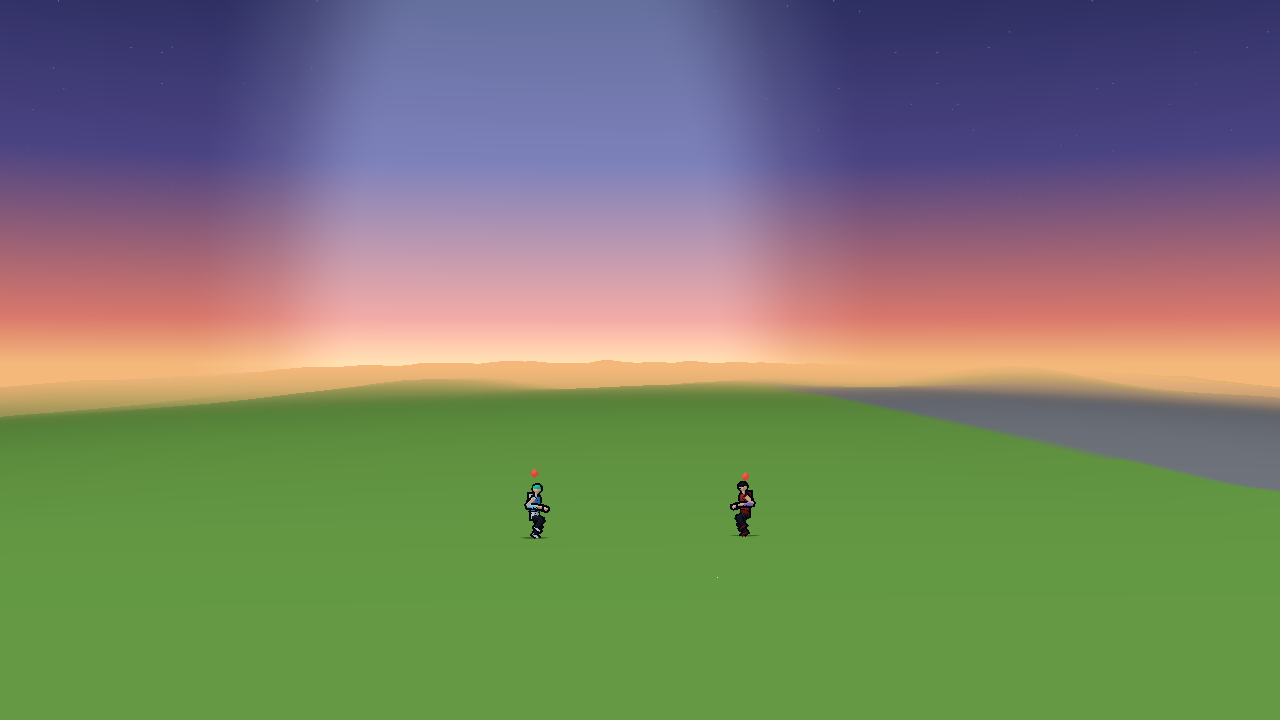
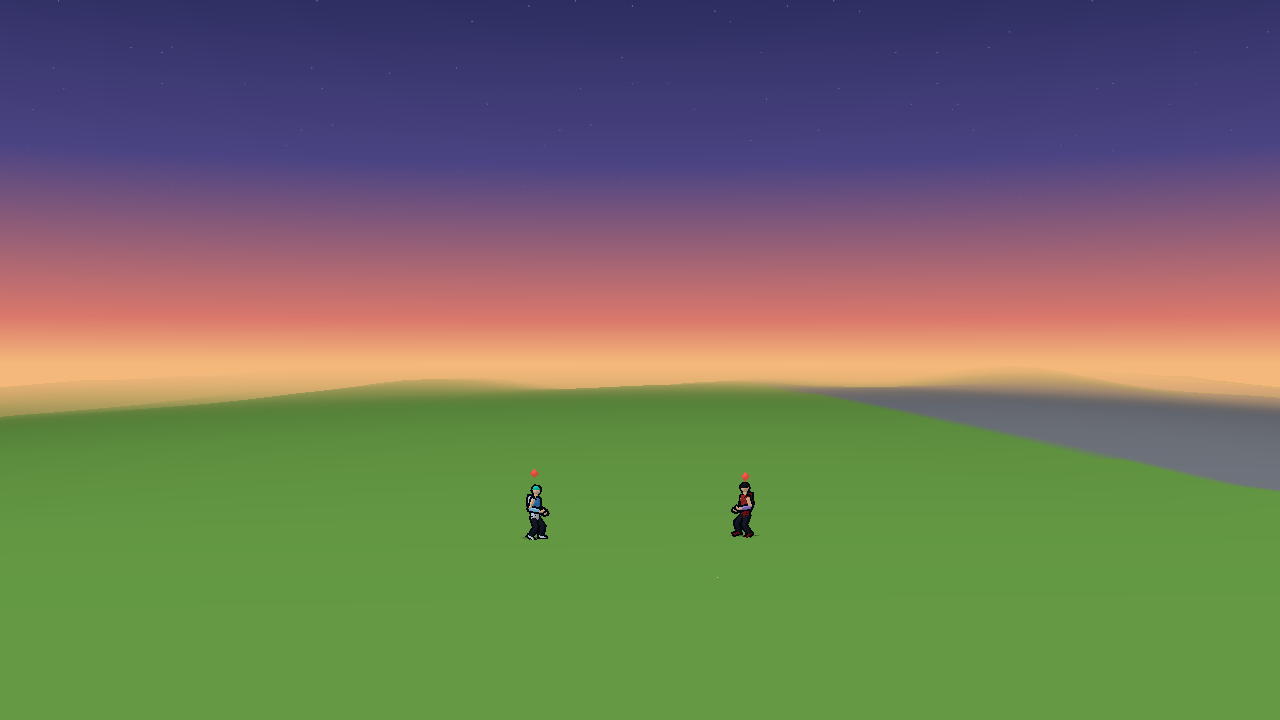
Rendering: the sky reaction is a gap in the clouds with a lit edge, never a pale pillar (GB-002)

Changed region(s): [[0.2188, 0.0, 0.625, 0.5194], [0.5625, 0.6722, 0.5938, 0.7639], [0.4062, 0.6722, 0.4375, 0.7639]]

diff --git a/docs/rendering/README.md b/docs/rendering/README.md
@@ -332,18 +332,31 @@ Each fighter at stages 0 to 3, then the first again in the reduced version: ![da
 
 At the fight's own size, both wounded: ![damage in a fight](img/cool-damage-fight.png)
 
-**The sky reacts from tier 3 (feature 12, Rendering's part).**
-- **Clouds.** The sky had none, so nothing could part. It now has a band of long clouds above the horizon: two octaves of noise in the sky shader, lit warm from the horizon. They move with the camera's place round the planet (the pattern wraps with the planet) and a slow wind. There are none at the horizon line, where the ground's haze meets the sky, and none in space.
-- **The reaction.** For a fighter at tier 3 or more the clouds part in a tall opening above him, their edges round it lit in his colour, and the sky inside pales toward his colour. Half strength at tier 3, full at tier 4, easing over 1.5 s of tick time. Each pane shows it from its own camera. Nothing happens below tier 3.
-- **It only lightens.** A pixel inside the opening is never darker than the sky was, and there is no lightning (Legal's screen of the list). The stars fade inside the opening.
+**The clouds part from tier 3 (feature 12, Rendering's part).**
+- **Clouds.** The sky has a band of long clouds above the horizon: two octaves of noise in the sky shader, lit warm from the horizon. They move with the camera's place round the planet (the pattern wraps with the planet) and a slow wind. There are none at the horizon line, where the ground's haze meets the sky, and none in space.
+- **The reaction.** For a fighter at tier 3 or more, a gap opens in the cloud band above him, wider than tall, and the clouds round the gap are lit in his colour. Half strength at tier 3, full at tier 4, easing over 1.5 s of tick time. Nothing happens below tier 3.
+- **Only clouds.** That is all of it. No cloud is made, nothing is drawn where there is no cloud, and the sky inside the gap is the sky as it was. Under a clear patch of sky a tier 4 fighter shows nothing.
+- **It stays in the cloud band.** The gap's middle sits 0.45 above the fighter and between 0.46 and 1.0 above the horizon (in half screen heights); nothing parts in the last 0.14 above the horizon.
+- **Only for a fighter the pane shows.** It fades out as he leaves that pane's screen, over 15% of the screen's width, so no gap hangs in the sky for someone the player cannot see. In a split each pane parts the clouds for its own fighter.
+- **It only lightens a cloud, and never to white.** Nothing darkens and there is no lightning (Legal's screen of the list). Where two fighters' gaps meet, their colours blend by weight.
 - **It stands down** (stacking rule 9) while that fighter charges, charges a beam, breaks into a transformation, is the actor of a set-piece pause, or has VFX's transformation effect on him. It eases out and comes back after.
-- **The clouds stay at low quality** (EP's ruling, 2026-10-02: they cost nothing measurable, below). `--noclouds` takes them away, for A/B.
-- **Reduced motion gets a calm sky:** the clouds stand still (no wind) and do not part, so the reaction is the pale tint alone behind them. It follows UI's `reduced_motion` option.
+- **The clouds stay at low quality** (EP's ruling, 2026-10-02: they cost nothing measurable, below). `--noclouds` takes them away, and the reaction with them.
+- **With reduced motion** the clouds stand still (no wind) and nothing parts. It follows UI's `reduced_motion` option.
 - Rubble floating and cracks spreading under a standing fighter are VFX's and World's parts of the same feature.
 
 Calm, then one fighter at tier 3 and at tier 4: ![calm](img/cool-sky-calm.png) ![tier 3](img/cool-sky-tier3.png) ![tier 4](img/cool-sky-tier4.png)
 
-Both reacting (tier 4 and tier 3), the same with `--noclouds`, and with reduced motion on the web build: ![both](img/cool-sky-both.png) ![no clouds](img/cool-sky-reduced.png) ![calm](img/cool-sky-calm-motion.png)
+Both at tier 4, and the same with `--noclouds`: ![both](img/cool-sky-both.png) ![no clouds](img/cool-sky-reduced.png)
+
+**What it was, and why it changed (QA's GB-002, 2026-10-02).** The first version cleared the clouds in a tall opening above the fighter, lifted to the horizon, and paled the sky inside it toward his colour. Orb, flying high with both fighters at tier 4, saw a "strange aura": from a high camera the opening sat against the horizon glow as a pale blurred pillar, it slid across the sky with the far fighter's direction, and nothing explained it. The pale fill is gone, the opening is a gap in the clouds and nothing else, and a fighter off the screen parts nothing.
+
+The high camera, both at tier 4, before and after: ![before](img/sky-gb002-high-before.png) ![after](img/sky-gb002-high-after.png)
+
+The low camera, before and after: ![before](img/sky-gb002-low-before.png) ![after](img/sky-gb002-low-after.png)
+
+The split view, before and after (each pane now parts the clouds for its own fighter only): ![before](img/sky-gb002-split-before.png) ![after](img/sky-gb002-split-after.png)
+
+`tools/sky_check.gd` guards it (needs a window): with the clouds off, tier 4 changes no pixel of the sky; with them on, the last of the band above the horizon is unchanged; a tier 4 fighter off the screen changes nothing; with reduced motion nothing parts; and the clouds do part somewhere round the planet. Low and high camera, 8 places each. The old shader fails six of the ten.
 
 **Windows, and windows blowing out (feature 12).** The buildings had no windows, so VFX's glass came out of blank walls.
 - **Windows.** `building.gdshader` draws them on every wall: a row a floor (the building's height over its floor count), a column every 62 units along the wall (`WINDOW_PITCH`), 30% of them lit by a hash of the building and the cell (`WINDOW_LIT_SHARE`). No textures, no geometry, no draw call. They fade to the wall's tone before they alias at far zoom. `--nowindows` leaves the walls blank, for A/B.
@@ -612,6 +625,7 @@ All commands run from the repo root; each exits 0 on success.
 | Pane check | `godot --headless --path . --script res://render/tools/pane_check.gd` | passed (37 checks; hash with and without a compositor; the cut-away request, the pitch, the inset, attaching again) |
 | Cue check | `godot --headless --path . --script res://render/tools/cue_check.gd -- --profile=spaced` | passed (46 checks over two full matches; hash with and without the poses) |
 | Outline check | `godot --path . --script res://render/tools/outline_check.gd` (needs a window; under `--headless` it exits with code 2, not run) | passed: 0 crack pixels over 24 poses; the unbaked control 9,024 (`docs/rendering/outline-normals-plan.md`) |
+| Sky check | `godot --path . --script res://render/tools/sky_check.gd` (needs a window; under `--headless` it exits with code 2, not run) | passed: 10 checks (the clouds part and nothing else; the pre-fix shader fails 6) |
 | Cull check | `godot --path . --script res://render/tools/cull_check.gd` (needs a window; under `--headless` it exits with code 2, not run) | passed: 7 buildings, 504 views, the game's picture and the rasterizer-culled reference at most 30 of 255 apart (tolerance 64); the control with the old fault put back fails 52 of 72 views, up to 229 apart |
 | Sim parity (Simulation's) | `godot --headless --path . --script res://sim/core/tools/parity.gd` | still passes |
 
